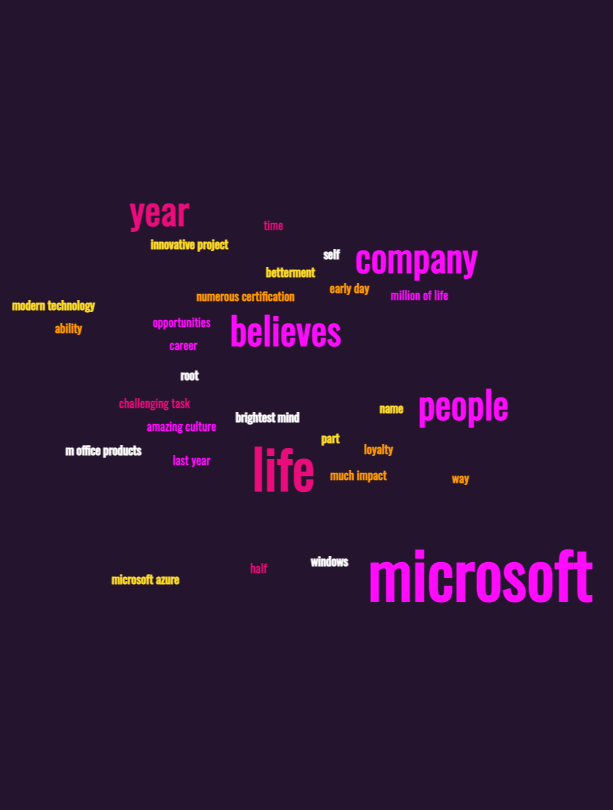
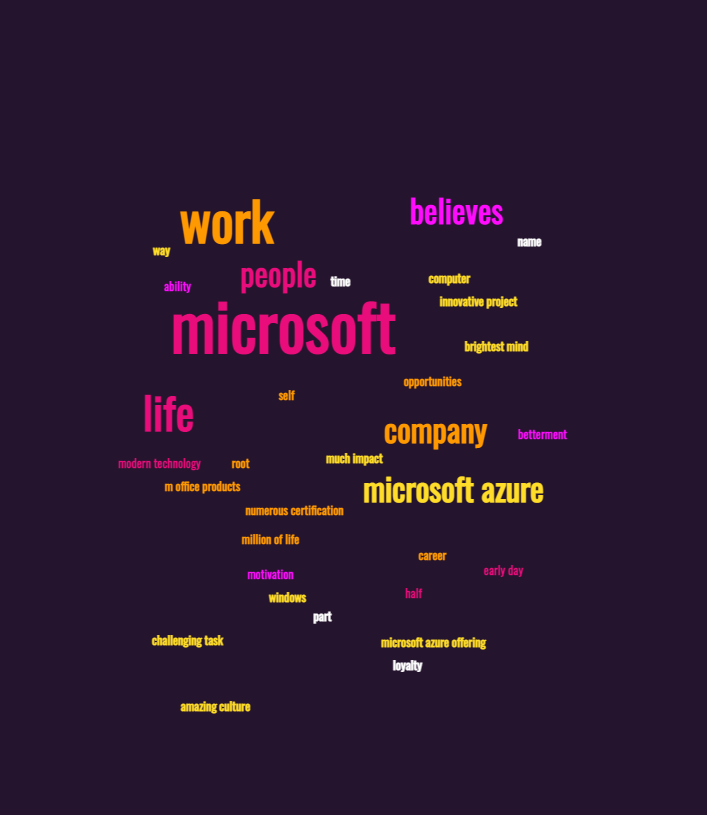
Updated the images

diff --git a/ms/index.html b/ms/index.html
@@ -61,15 +61,15 @@
 				<div class="fh5co-portfolio-figure animate-box" style="background-image: url(images/work_1.png);"></div>
 				<div class="fh5co-portfolio-description">
 					<h2>Why Microsoft?</h2>
-					<p>This has its root in my early days when every time I started a computer I saw that one name flashing - Microsoft. It was hard to imagine life without Windows and MS office products. When you see a company making so much impact on people's lives, you certainly get emotionally attached to it. Through Microsoft, I want to touch millions of lives by creating something for the betterment of the people. I am looking to advance my career to work on more challenging tasks and modern technologies. The opportunity to work with some of the brightest minds, work on innovative projects, and be a part of an amazing culture excites me. Talking about loyalty, I am not even trying to apply to any other company. So why now? I never thought that I could get into Microsoft, not because of my ability, but because of my belief. Over the last few years, I have been working on my self-belief, and here I am. So what have I done?
-Since last year and a half, I have been learning about Microsoft Azure. Along the way, I did achieve numerous <a href ="https://www.credly.com/users/kailash-joshi/badges" >certifications</a>. Lately, for the purpose of this interview, I am familiarizing myself with the Power platform offerings, and web stacks like React, Typescript, GraphQL, etc.</p>
+					<p>This has its root in my early days when every time I started a computer I saw that one name flashing - Microsoft. It was hard to imagine life without Windows and MS office products. When you see a company making so much impact on people's lives, you certainly get emotionally attached to it. Through Microsoft, I want to touch millions of lives by creating something for the betterment of the people. I am looking to advance my career to work on more challenging tasks and modern technologies. The opportunity to work with some of the brightest minds, work on innovative projects, and be a part of an amazing culture excites me. Talking about loyalty, I am not even trying to apply to any other companies. So why now? I never thought that I could get into Microsoft, not because of my ability, but because of my belief. Over the last few years, I have been working on my self-belief, and here I am. So what have I done?
+Since last year and a half, I have been learning about Microsoft Azure. Along the way, I did achieve numerous <a href ="https://www.credly.com/users/kailash-joshi/badges" >certifications</a>. This has helped me tremendously to understand and know the Microsoft Azure offerings and has further reinforced my motivation to work for Microsoft.</p>
 				</div>
 			</div>
 			<div class="fh5co-portfolio-item fh5co-img-right">
 				<div class="fh5co-portfolio-figure animate-box" style="background-image: url(images/work_2.png);"></div>
 				<div class="fh5co-portfolio-description">
-					<h2>Why Power Platform?</h2>
-					<p>Power Platform surpassed $2 billion in revenue over the past 12 months, making it one of the fastest-growing businesses at scale. It is exciting to work on products that enable less technical people to create apps, automate them, and visualize their data without much code. Working with connectors to get data from various sources, building bots, and infusing AI into the apps sounds fascinating to me. This is the kind of work where I feel I can provide maximum value and work to my full potential.</p>
+					<h2>Exposure to Azure Data Services</h2>
+					<p>Our customer's data is mainly stored in Azure SQL Databases and partly in CosmosDB. Using CosmosDB (SQL API) was my first encounter with using a NoSQL database. Some of the interesting concepts I learned during this experience were RUs, Partition Key, and Point reads. It was also a good learning experience using C# SDK to interact with CosmosDB. I also got my hands dirty with CosmosDB emulator and azure storage explorer for local testing. I hope some of this experience would be useful for this role.</p>
 				</div>
 			</div>
 			<div class="fh5co-portfolio-item ">
